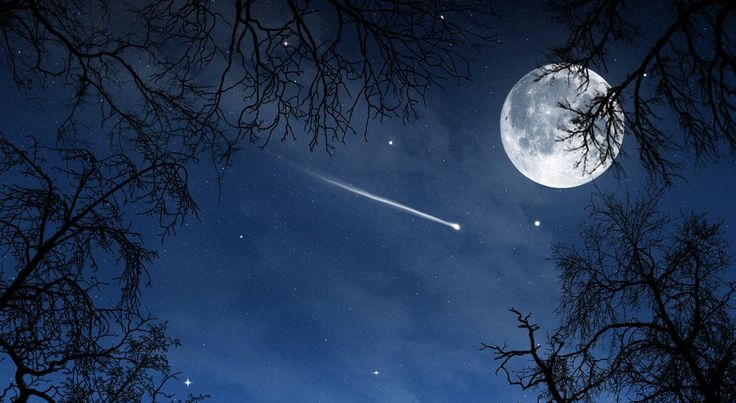
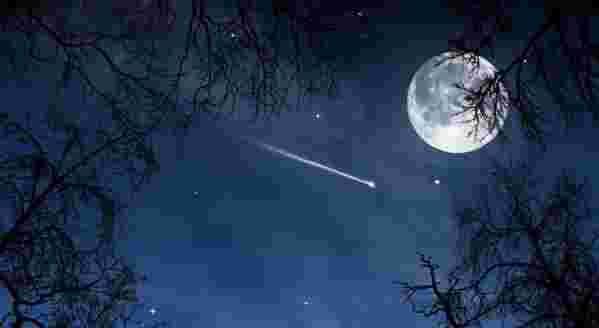
* compress image for faster loading * load angluar, bootstrap an jquery from cdn service for production

diff --git a/app/js/controllers.js b/app/js/controllers.js
@@ -9,6 +9,27 @@ var truckInterval;
 var RATING_RETURN;
 
 angular.module('myApp.controller', ['ui.bootstrap'])
+    .service('scoreService', function(){
+        var result = {
+            score: 0,
+            round : 5
+        };
+        return {
+            getScore: function () {
+                return result.score;
+            },
+            setScore: function(value) {
+                result.score = value;
+            },
+            getRound : function () {
+                return result.round;
+            },
+            setRound : function (value) {
+                result.round = value;
+            }
+        };
+    })
+
     .controller('trialController',  function ($scope,  $state) {
 
 
@@ -228,9 +249,12 @@ angular.module('myApp.controller', ['ui.bootstrap'])
         var imageArray =[0, 1, 2, 3, 4, 5, 6, 7, 8, 9, 10, 11];
 
         $scope.finishShowing = false;
+        $scope.first = "moon";
+        $scope.second = "sky";
+
         var imageInterval = setInterval(function(){
             showOnePairImage();
-        },2 * 1000);
+        },3 * 1000);
 
         function showOnePairImage(){
             var position = getImagePosition();
@@ -241,9 +265,11 @@ angular.module('myApp.controller', ['ui.bootstrap'])
                 imageArray.splice(index, 1);
             }
             console.log("Image1: " + imageNumber  +" index: " + index);
-
+            $scope.first = "bg/bg" + imageNumber;
+            $scope.$apply();
             checkFinishShowing();
-            $("#firstImage").attr('src', "/img/bg/bg" + imageNumber + ".jpg" );
+            //$("#firstImage").attr('src', "img/bg/bg" + imageNumber + ".jpg" );
+
 
             console.log("length before start 2: " + imageArray.length);
             imageNumber   = imageArray[Math.floor(Math.random() * imageArray.length)];
@@ -255,7 +281,10 @@ angular.module('myApp.controller', ['ui.bootstrap'])
 
 
             checkFinishShowing();
-            $("#secondImage").attr('src', "/img/bg/bg" + imageNumber + ".jpg" );
+            //$("#secondImage").attr('src', "img/bg/bg" + imageNumber + ".jpg" );
+            $scope.second = "bg/bg" + imageNumber;
+            $scope.$apply();
+
         }
 
         function checkFinishShowing(){
@@ -264,7 +293,6 @@ angular.module('myApp.controller', ['ui.bootstrap'])
                 console.log("Clear interval here");
                 $scope.$apply(function(){
                     $scope.finishShowing = true;
-
                 });
             }
         }
@@ -277,14 +305,16 @@ angular.module('myApp.controller', ['ui.bootstrap'])
         }
     })
 
-    .controller("TestController", function($scope, $state, $timeout,  $modal, $log) {
+    .controller("TestController", function($scope, $state, $timeout,  $modal, $log, scoreService) {
         var LEFT_CLICKED, LEFT_TRUE;
-        var ROUND = 0, AI_SUGGEST ;
+        var ROUND = 0, AI_SUGGEST, TOTAL_SCORE = 0 ;
         var WRONG_IMAGE_ARRAY =[0, 1, 2, 3, 4, 5, 6, 7, 8, 9, 10, 11];
         var CORRECT_IMAGE_ARRAY =[0, 1, 2, 3, 4, 5, 6, 7, 8, 9, 10, 11];
         var COUNTER_TIMEOUT,   IMAGE_TIMEOUT;
 
         $scope.animationsEnabled = true;
+        $scope.first = "moon";
+        $scope.second = "sky";
 
         $scope.open = function (size) {
 
@@ -305,12 +335,14 @@ angular.module('myApp.controller', ['ui.bootstrap'])
                 if( selectedItem >= 1 && selectedItem <= 10){
                     if( ROUND < 5){
                         setTimeout(function(){
-                            reset();
+                            resetToStartNewRound();
                             setCounter();
                             showOnePairImage();
-                        },  1000);
+                        }, 2 * 1000);
                     }else{
-                        alert("you have finished the test!");
+                        scoreService.setRound(ROUND);
+                        scoreService.setScore(TOTAL_SCORE);
+                        $state.go('summary');
                     }
                 }
             }, function () {
@@ -323,7 +355,7 @@ angular.module('myApp.controller', ['ui.bootstrap'])
             showOnePairImage();
         }, 3 * 1000);
 
-        function reset(){
+        function resetToStartNewRound(){
             $scope.selectImage = "";
             $scope.suggestImage = "";
             $scope.counter = 7;
@@ -363,7 +395,7 @@ angular.module('myApp.controller', ['ui.bootstrap'])
             }
         };
 
-        $scope.selectFinalAnswer = function(leftClick){
+        $scope.clickFinalAnswer = function(leftClick){
             LEFT_CLICKED = leftClick;
             checkResult();
             $scope.open('lg');
@@ -372,6 +404,7 @@ angular.module('myApp.controller', ['ui.bootstrap'])
         function checkResult(){
             if( (LEFT_CLICKED && LEFT_TRUE)  || (!LEFT_CLICKED && !LEFT_TRUE) ){
                 $scope.result = true;
+                TOTAL_SCORE++;
             }else{
                 $scope.result = false;
             }
@@ -411,11 +444,17 @@ angular.module('myApp.controller', ['ui.bootstrap'])
 
         function setImage(correctImageNumber,wrongImageNumber ){
             if( LEFT_TRUE){
-                $("#firstImage").attr('src', "/img/bg/bg" + correctImageNumber + ".jpg" );
-                $("#secondImage").attr('src', "/img/wrong/w" + wrongImageNumber + ".jpg" );
+                //$("#firstImage").attr('src', "img/bg/bg" + correctImageNumber + ".jpg" );
+                //$("#secondImage").attr('src', "img/wrong/w" + wrongImageNumber + ".jpg" );
+                $scope.first = "bg/bg" + correctImageNumber;
+                $scope.second = "wrong/w" + wrongImageNumber;
+                $scope.$apply();
             }else{
-                $("#firstImage").attr('src', "/img/wrong/w" + wrongImageNumber + ".jpg" );
-                $("#secondImage").attr('src', "/img/bg/bg" + correctImageNumber + ".jpg" );
+                //$("#firstImage").attr('src', "img/wrong/w" + wrongImageNumber + ".jpg" );
+                //$("#secondImage").attr('src', "img/bg/bg" + correctImageNumber + ".jpg" );
+                $scope.first = "wrong/w" + wrongImageNumber;
+                $scope.second = "bg/bg" + correctImageNumber;
+                $scope.$apply();
             }
         }
 
@@ -432,6 +471,7 @@ angular.module('myApp.controller', ['ui.bootstrap'])
     })
 
     .controller('RatingModalController',  function ($scope, $modalInstance, result) {
+
         if( result){
             $scope.finalResult = "CORRECT";
         }else{
@@ -463,6 +503,37 @@ angular.module('myApp.controller', ['ui.bootstrap'])
         ];
     })
 
+    .controller('SummaryController', function($scope, scoreService){
+
+        $scope.rate = {
+            value : 5
+        };
+
+        $scope.max = 10;
+
+        $scope.isReadonly = false;
+
+        $scope.showScore = false;
+
+        $scope.hoveringOver = function (value) {
+            $scope.overStar = value;
+            $scope.percent = 100 * (value / $scope.max);
+        };
+
+        $scope.guess = function () {
+            $scope.score = scoreService.getScore();
+            $scope.round = scoreService.getRound();
+            $scope.showScore = true;
+        };
+
+        $scope.ratingStates = [
+            {stateOn: 'glyphicon-ok-sign', stateOff: 'glyphicon-ok-circle'},
+            {stateOn: 'glyphicon-star', stateOff: 'glyphicon-star-empty'},
+            {stateOn: 'glyphicon-heart', stateOff: 'glyphicon-ban-circle'},
+            {stateOn: 'glyphicon-heart'},
+            {stateOff: 'glyphicon-off'}
+        ];
+    })
 
 ;
 

diff --git a/app/index.html b/app/index.html
@@ -20,10 +20,13 @@
   <script src="bower_components/html5-boilerplate/dist/js/vendor/modernizr-2.8.3.min.js"></script>
 
   <!-- Latest compiled and minified CSS -->
+  <!-- Latest compiled and minified CSS -->
+  <!-- Latest compiled and minified CSS -->
+  <link rel="stylesheet" href="http://maxcdn.bootstrapcdn.com/bootstrap/3.3.5/css/bootstrap.min.css">
+  <!-- Optional theme -->
+  <link rel="stylesheet" href="https://maxcdn.bootstrapcdn.com/bootstrap/3.3.5/css/bootstrap-theme.min.css">
 
-    <!--<link href="//netdna.bootstrapcdn.com/bootstrap/3.1.1/css/bootstrap.min.css" rel="stylesheet">-->
-
-  <link rel="stylesheet" href="bower_components/bootstrap/dist/css/bootstrap.min.css">
+  <!--<link rel="stylesheet" href="bower_components/bootstrap/dist/css/bootstrap.min.css">-->
 
   <!--&lt;!&ndash; Optional theme &ndash;&gt;-->
   <!--<link rel="stylesheet" href="css/bootstrap-theme.min.css">-->
@@ -47,10 +50,13 @@
   <script src="//ajax.googleapis.com/ajax/libs/angularjs/x.x.x/angular.min.js"></script>
   -->
 
-  <script src="js/jquery-2.1.4.js"></script>
-  <script src="js/jquery-ui.js"></script>
+  <script src="https://ajax.googleapis.com/ajax/libs/jquery/2.1.4/jquery.min.js"></script>
+  <!--<script src="js/jquery-ui.js"></script>-->
+  <link rel="stylesheet" href="https://ajax.googleapis.com/ajax/libs/jqueryui/1.11.4/themes/smoothness/jquery-ui.css">
+  <script src="https://ajax.googleapis.com/ajax/libs/jqueryui/1.11.4/jquery-ui.min.js"></script>
 
-  <script src="bower_components/angular/angular.js"></script>
+  <!--<script src="bower_components/angular/angular.js"></script>-->
+  <script src="https://ajax.googleapis.com/ajax/libs/angularjs/1.3.15/angular.min.js"></script>
   <!--<script src="bower_components/angular-timer/app/js/_timer.js"></script>-->
   <script src="js/angular-timer-all.min.js"></script>
   <script src="bower_components/angular-bootstrap/ui-bootstrap-tpls.js"></script>

diff --git a/app/html/introduction.html b/app/html/introduction.html
@@ -5,22 +5,17 @@
             <div class="col-sm-8 col-sm-offset-2">
                 <h1 class="text-center text-primary prev">Introduction</h1>
                 <p class="lead text-justify " style="padding: 10px">
-                <!--<p class="lead text-justify bg-info" style="padding: 10px">-->
-                    In the game, first, you will have time to see 60 randomized pictures. <br /><br />
-                    After that, you would need to answer some question about the famous people in the world. <br/>
+                    In the game, first, you will have time to see 60 randomized pictures. <br />
+                    After that, you would need to answer some question about the famous people in the world. <br/><br />
                     Then, the most interesting part is that you would have a chance to answer 10 questions.
-                    For each question, there would be a pair of images, one image you have seen in the first session.<br/>
-                    The other image is very similar is the correct one. Your task is to pick the image you have seen.<br/>
-                    All the best!<br/>
+                    For each question, there would be a pair of images, one image you have seen in the first session.<br/><br />
+                    The other image is very similar is the correct one. Your task is to pick the image you have seen. All the best!<br/><br />
                     Before we begin, please tell us a little bit about yourself.
                 </p>
                 <div class="span7 text-center">
                     <button ui-sref="user_info" class="btn btn-lg btn-success ">OK</button>
 
                 </div>
-                <!--<div class="span7 text-center">-->
-                    <!--<button ui-sref="test" class="btn btn-lg btn-success ">TEST</button>-->
-                <!--</div>-->
 
             </div>
         </div>

diff --git a/app/html/summary.html b/app/html/summary.html
@@ -1,0 +1,32 @@
+<div class="container">
+    <h1 class="text-center">Thank you very much for your participation!</h1>
+    <div class="row">
+        <div class="span7 text-center">
+            <p class="lead">Please rate the level at which you trust the AI after all the questions ?<br>
+                0% means not at all, 100% means you definitely trust the AI
+            </p>
+            <rating style="font-size: 30px" ng-model="rate.value" max="max" readonly="isReadonly" on-hover="hoveringOver(value)" on-leave="overStar = null"></rating>
+
+            <span  style="font-size: 30px; margin-left: 20px" class="label" ng-class="{'label-warning': percent<30, 'label-info': percent>=30 && percent<70, 'label-success': percent>=70}" ng-show="overStar">{{percent}}%</span>
+            <pre style="margin:15px 0;">Rate: <b>{{rate.value}}/{{max}}</b></pre>
+        </div>
+    </div>
+
+    <div class="row">
+        <p class="text-center">How many question do you think you have answer correctly ?</p>
+    </div>
+
+    <div class="row">
+        <div class="span7 text-center">
+            <input type="text" class="text-danger" ng-model="guessScore"/>
+            <button class="btn btn-primary btn-large" ng-click="guess()">Submit</button>
+        </div>
+    </div>
+
+    <div class="row" ng-show="showScore" style="padding-top: 10px">
+        <div class="span7 text-center">
+            <p>Good try, your result: </p>
+            <pre>{{score}}/{{round}}</pre>
+        </div>
+    </div>
+</div>

diff --git a/app/html/test.html b/app/html/test.html
@@ -29,10 +29,10 @@
 
     <div class="row">
         <div class="col-sm-5 col-sm-offset-1 " >
-            <img id="firstImage" ng-src="/img/sky.jpg" class="imageStyle" ng-click="clickImage(true)">
+            <img id="firstImage" ng-src="img/{{first}}.jpg" class="imageStyle" ng-click="clickImage(true)">
         </div>
         <div class="col-sm-5 col-sm-offset-1 imageStyle">
-            <img  id="secondImage" ng-src="/img/moon.jpg" class="imageStyle" ng-click="clickImage(false)">
+            <img  id="secondImage" ng-src="img/{{second}}.jpg" class="imageStyle" ng-click="clickImage(false)">
         </div>
     </div>
 
@@ -43,10 +43,10 @@
 
         <div class="row">
             <div class="col-sm-4 col-sm-offset-2">
-                <button class="btn btn-primary btn-large" ng-click="selectFinalAnswer(true)">LEFT</button>
+                <button class="btn btn-primary btn-large" ng-click="clickFinalAnswer(true)">LEFT</button>
             </div>
             <div class="col-sm-4 ">
-                <button class="btn btn-primary btn-large" ng-click="selectFinalAnswer(true)" >RIGHT</button>
+                <button class="btn btn-primary btn-large" ng-click="clickFinalAnswer(true)" >RIGHT</button>
             </div>
         </div>
 

diff --git a/app/html/show.html b/app/html/show.html
@@ -3,10 +3,10 @@
     
     <div class="row">
         <div class="col-sm-5 col-sm-offset-1 imageStyle " >
-            <img id="firstImage" ng-src="/img/moon.jpg" class="imageStyle">
+            <img id="firstImage" ng-src="img/{{first}}.jpg" class="imageStyle">
         </div>
         <div class="col-sm-5 col-sm-offset-1 imageStyle">
-            <img  id="secondImage" ng-src="/img/sky.jpg" class="imageStyle">
+            <img  id="secondImage" ng-src="img/{{second}}.jpg" class="imageStyle">
         </div>
     </div>
     <div class="row"  style="padding-top: 50px;" ng-show="finishShowing" >

diff --git a/app/js/app.js b/app/js/app.js
@@ -35,6 +35,12 @@ myApp.config(function($stateProvider, $urlRouterProvider) {
             controller: "TestController"
         })
 
+        .state('summary', {
+            url: "/summary",
+            templateUrl: "html/summary.html",
+            controller: "SummaryController"
+        })
+
         .state('scan', {
             url: "/scan",
             templateUrl: "html/scan.html",
